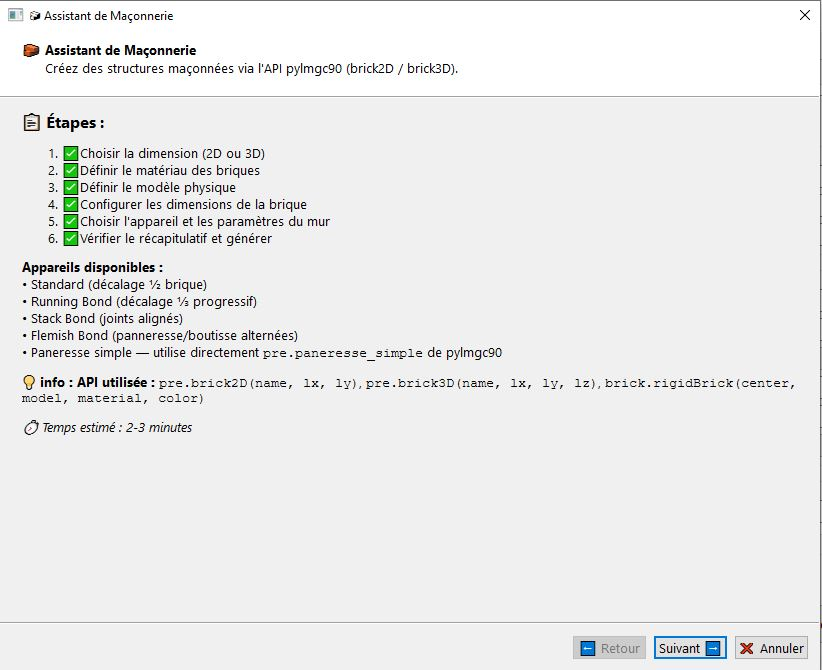
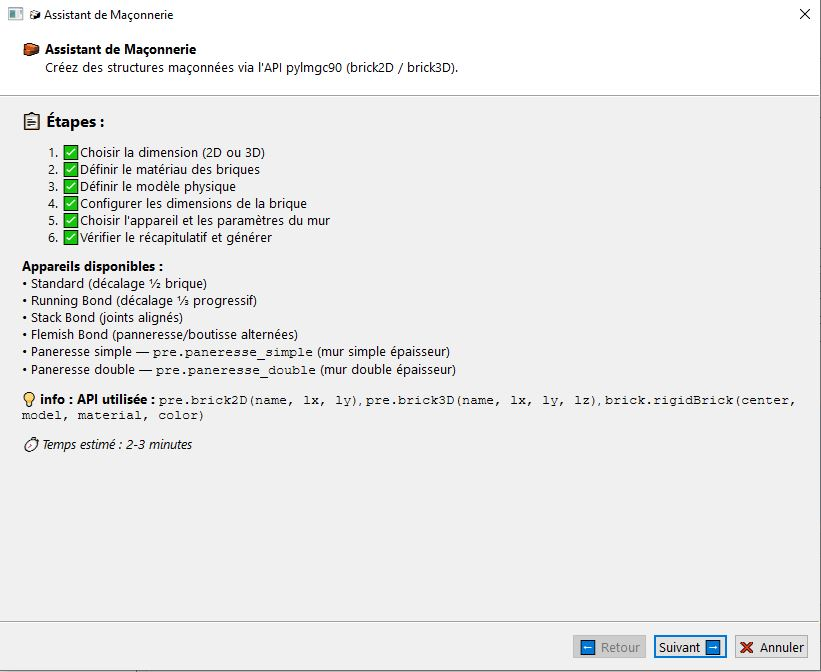
fix masonry.md

diff --git a/docs/masonry.md b/docs/masonry.md
@@ -1,0 +1,99 @@
+# Assistant Maçonnerie – Génération de structures en briques
+
+L’assistant maçonnerie permet de créer rapidement des murs, panneaux ou structures maçonnées en briques rigides avec **LMGC90_GUI**.
+
+Il génère automatiquement :
+- les briques (rigidBrick2D ou rigidBrick3D)
+- les groupes d’avatars pour un pilotage facile
+
+L’assistant s’appuie sur les fonctions historiques de `pylmgc90.pre` (`brick2D`, `brick3D`, `paneresse_simple`,  `paneresse_simple`, etc.).
+
+## Accès à l’assistant
+
+Menu :  
+**Fichier → Assistant maçonnerie**  
+ou raccourci : **Ctrl + Shift + M**
+
+## Étapes de l’assistant (pages du wizard)
+
+### 1. Introduction
+Première page de l'assistant est une brève présentation, cliquez sur le bouton "Suivant", 
+
+![](captures/assistant_maçon_page1.JPG)
+
+### 2. Dimensions de la brique de référence
+La deuxième page est pour le choix de la dimension de votre modèle, je choisis la dimension 2D, puis sur le bouton "Suivant", 
+
+![](captures/assistant_maçon_page2.JPG)
+       |
+
+### 3. Matériau, modèle 
+La troisième page est consacrée aux : 
+
+- **1.matériau**  : soit existant ou une nouvelle création (nom : TDURx, BRIQx, etc.)
+
+![](captures/assistant_maçon_page3.JPG)
+
+- **2.modèle** le modèle doit être rigide (Rxx2D / Rxx3D)
+
+![](captures/assistant_maçon_page4.JPG)
+
+### 4. Type de pose / disposition
+Cette quatrième page est consacrée à la création de votre exemple de brique (nom, longueur et largeur )
+
+| Paramètre              | Symbole | Valeur par défaut | Unité | Remarques                                      |
+|------------------------|---------|-------------------|-------|------------------------------------------------|
+| Longueur (paneresse)   | lx      | 0.20              | m     | Dimension selon l’axe principal                |
+| Largeur / profondeur   | ly      | 0.10              | m     | Épaisseur de la brique                         |
+| Hauteur (3D seulement) | lz      | 0.05              | m     | Seulement en 3D                                |
+| Épaisseur joint        | ej      | 0.010             | m     | Espace entre briques (0 = pas de joint) 
+
+![](captures/assistant_maçon_page5.JPG)
+
+On arrive maintenant aux types de génération de votre mur, comme on le voit sur le type d'appareil, il existe plusieurs types de générations  : 
+                       | 2D + 3D       |
+
+### 2D/3D
+
+| Disposition         | Description                               | Utilisation typique                     | Support 2D/3D |
+|---------------------|-------------------------------------------|-----------------------------------------|---------------|
+| Paneresse simple    | Briques posées à plat, alignées           | Murs simples, cloisons                  | 3D       |
+| Boutisse            | Briques posées sur la tranche             | Renforts, murs porteurs                 | 2D + 3D       |
+| Paneresse + boutisse| Alternance tous les rangs                 | Murs traditionnels en pierre/brique     | 2D + 3D       |
+| Double paneresse    | Deux rangées parallèles + boutisses       | Murs épais (> 30 cm)                    | 3D     |
+| Chant               | Briques debout sur la hauteur             | Bordures, appuis                        | 2D + 3D       |
+
+![](captures/assistant_maçon_page6.JPG)
+
+### Géomtérie
+Ici vous introduisez la géométrie de votre mur,  
+
+| Paramètre               | Symbole | Valeur par défaut | Remarques                                      |
+|-------------------------|---------|-------------------|------------------------------------------------|
+| Longueur totale         | L       | 4.00              | Longueur du mur (axe x)                        |
+| Hauteur totale          | H       | 2.50              | Hauteur du mur                                 |
+| Nombre de rangs         | nr      | auto              | Calculé automatiquement ou forcé               |
+| Mode dimensionnement    | -       | Nombre de briques | Ou longueur/hauteur fixées                     |
+| Sans demi-briques       | -       | décoché           | Évite les découpes (plus esthétique)           |
+| Décalage rang suivant   | offset  | 0.5 × lx          | Décalage horizontal des rangs (en % de lx)     |
+
+
+
+
+### 6. DOF
+La page DOF vous permet de fixer des conditions aux limites pour vos éléments de maçonnerie, 
+- translation
+- rotation
+- imposeDrivenDof
+- imposeInitValue
+
+![](captures/assistant_maçon_page7.JPG)
+
+
+**Imortant**
+
+L’assistant n'inclus pas encore l'ajout de lois de contact  :
+- Afin d'en rajouter une loi il vous faut passer par l'onglet `DOF`
+
+
+

diff --git a/docs/granulometry.md b/docs/granulometry.md
@@ -18,7 +18,7 @@ Cette section sert à la génération de dépôts granulaires, toute fois il vou
 
 
 ## Exemple
-Cet exemple n'est pas concret mais montre seulement les proprétés de vos granulométries
+Cet exemple n'est pas concret mais montre seulement les propriétés de vos granulométries
 | Champ | Description | Exemple |
 |-------|-------------|---------|
 | **Nombre de particules** | Nombre total de particules à générer | `400` |
@@ -60,11 +60,11 @@ Choisissez la dimension de votre modèle numérique, dans mon cas je vais dire e
 
 ![](captures/assistant_granulo_page2.JPG)
 
-L'assistant vous propesera de créer un matériau simple de type rigide, j'opte pour les valeurs par défauts, ensuite sur "suivant"
+L'assistant vous proposera de créer un matériau simple de type rigide, j'opte pour les valeurs par défauts, ensuite sur "suivant"
 
 ![](captures/assistant_granulo_page3.JPG)
 
-L'assistant vous propesera de créer un modèle rigide de type "Rxx2D"/"Rxx3D" pour la 2D/3D, je laisse tout par défaut, et cliquez sur "suivant", 
+L'assistant vous proposera de créer un modèle rigide de type "Rxx2D"/"Rxx3D" pour la 2D/3D, je laisse tout par défaut, et cliquez sur "suivant", 
 ![](captures/assistant_granulo_page4.JPG)
 
 On arrive maintenant au dialogue de génération, pour mon cas je vais générer 500 avatars, le rayon minimal et maximal respectivement à 0.05 et 0.06, puis cliquez sur "suivant", 

diff --git a/docs/overview.md b/docs/overview.md
@@ -1,17 +1,17 @@
 # Documentation LMGC90_GUI
 
-Bienvenue dans la documentation officielle de l’interface graphique LMGC90_GUI v0.3.5, qui n'est q'une brève introduction, 
+Bienvenue dans la documentation officielle de l’interface graphique LMGC90_GUI v0.4.0, qui n'est q'une brève introduction, 
 
 ## Navigation
-- [Interface](interface.md)
+- [Découverte de l'interface](interface.md)
 - [Assistant Projets](project_wizard.md)
 - [Création d'un matériau](material_creation.md)
 - [Création d'un modèle](model_creation.md)
 - [Création d'un avatar](avatar_creation.md)
 - [Avatar vide](empty_avatar.md)
 - [Templates](templates.md)
-- [Déformables](meshed.md)
-- [x][Maçonnerie](masonry.md)
+- [Assistant de déformables](meshed.md)
+- [Assistant de maçonnerie](masonry.md)
 - [Boucles paramétriques](loops.md)
 - [Granulométrie](granulometry.md)
 - [Conditions aux limites](dof.md)
@@ -20,3 +20,7 @@ Bienvenue dans la documentation officielle de l’interface graphique LMGC90_GUI
 - [Post-traitement](postpro.md)
 - [Calcul](calculs.md) 
 - [Visualisation](visualisation.md)
+
+**Exemples prêts à l'emploi** → dossier [examples/](../exemples/)
+
+Bonne lecture et bonnes simulations !

diff --git a/docs/loops.md b/docs/loops.md
@@ -1,6 +1,6 @@
 # Boucles Paramétriques
 
-En sorte, c'est comme une répétion d’avatars identiques sous différentes formes.
+En sorte, c'est comme une répétition d’avatars identiques sous différentes formes.
 
 ## Types de boucles
 Vous avez plusieurs formes : 
@@ -17,7 +17,7 @@ Il vous suffit seulement de remplir les champs pour chaque forme :
 - Rayon pour la forme circle / pas gille et ligne  / offsets (X et Y)
 - Option : stocker dans une liste nommée 
 ## exemple 
-Dans mon exemple je vais créer une répétirion linàire de RigidDisk, suivant l'axe "y", 
+Dans mon exemple je vais créer une répétition linéaire de RigidDisk, suivant l'axe "y", 
 - Après avoir créer une fondation RigidJonc, 
 - Type de bpoucle : linéaire, 
 - Nombre : 10,

diff --git a/docs/material_creation.md b/docs/material_creation.md
@@ -14,7 +14,7 @@ Cette section explique comment créer et configurer un matériau dans LMGC90_GUI
   - **Propriétés** : Champ texte pour paramètres avancés pour chaque type de matériau
 
 ## Types de matériaux disponibles
-Vous pourriez créer différents types de matériaux, ce tabelau comprenne tous les paramères pour chaque matériau:  
+Vous pourriez créer différents types de matériaux, ce tableau comprend tous les paramères pour chaque matériau:  
 
 | Code matériau | Nom complet | Nombre de paramètres | Paramètres principaux | Modèles compatibles |
 |---------------|-------------|----------------------|-----------------------|---------------------|

diff --git a/docs/project_wizard.md b/docs/project_wizard.md
@@ -1,5 +1,5 @@
 # Assistant de projet 
-L'Assistant de Configuration de Projet est un outil qui vous guidera pas à pas afin de créer rapidement un projet LMGC90 complet avec  les éléments essentiaux de vos modèles numériques.
+L'Assistant de configuration de Projet est un outil qui vous guidera pas à pas afin de créer rapidement un projet LMGC90 complet avec  les éléments essentiaux de vos modèles numériques.
 
 ## 🎯 Objectif
 

diff --git a/docs/empty_avatar.md b/docs/empty_avatar.md
@@ -1,6 +1,6 @@
 # Avatar Vide (Personnalisation avancée)
 
-Cet onglet vous permi de créer des corps rigides avec plusieurs contacteurs.
+Cet onglet vous permet de créer des corps rigides avec plusieurs contacteurs.
 
 ## Fonctionnalités
 - Ajout illimité de contacteurs
